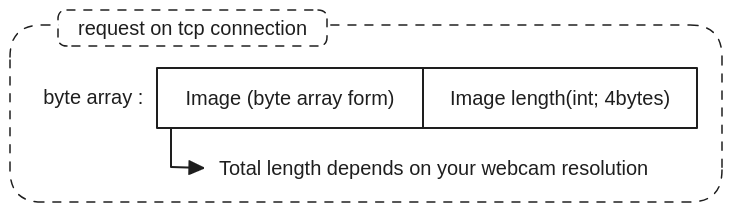
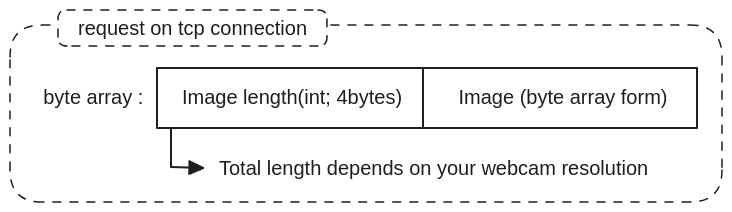
readme update
changed the order of request byte array

Changed region(s): [[0.6011, 0.4245, 0.9317, 0.5094], [0.2404, 0.4245, 0.571, 0.5094]]

diff --git a/README.md b/README.md
@@ -60,6 +60,10 @@ xxx.xxx.xx.xxx
 
 ![req.png](readmeImg%2Freq.png)
 
+<h4 align="center">
+Image Length is followed by Image
+</h4>
+
 - response
 
 ![res.png](readmeImg%2Fres.png)
